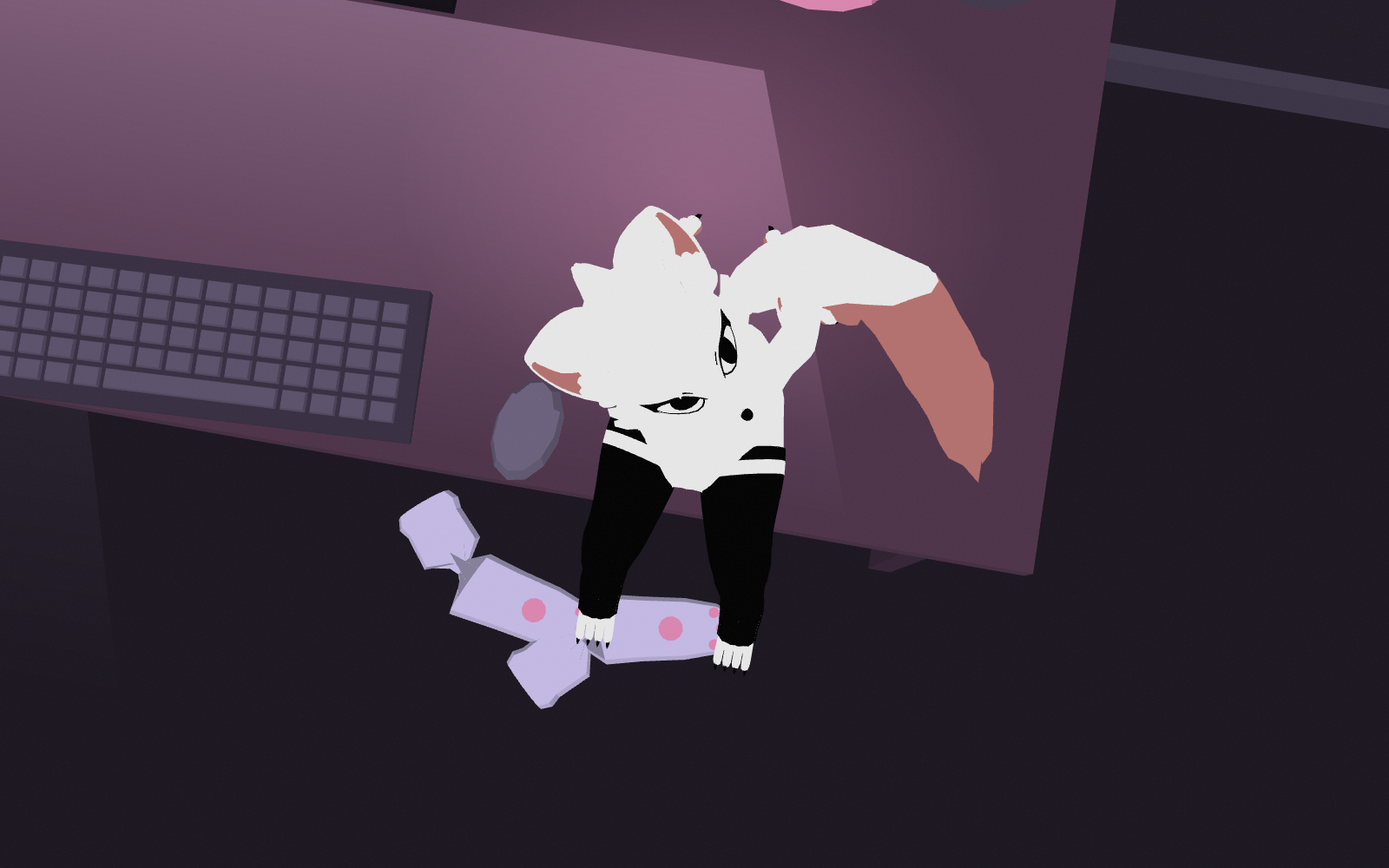
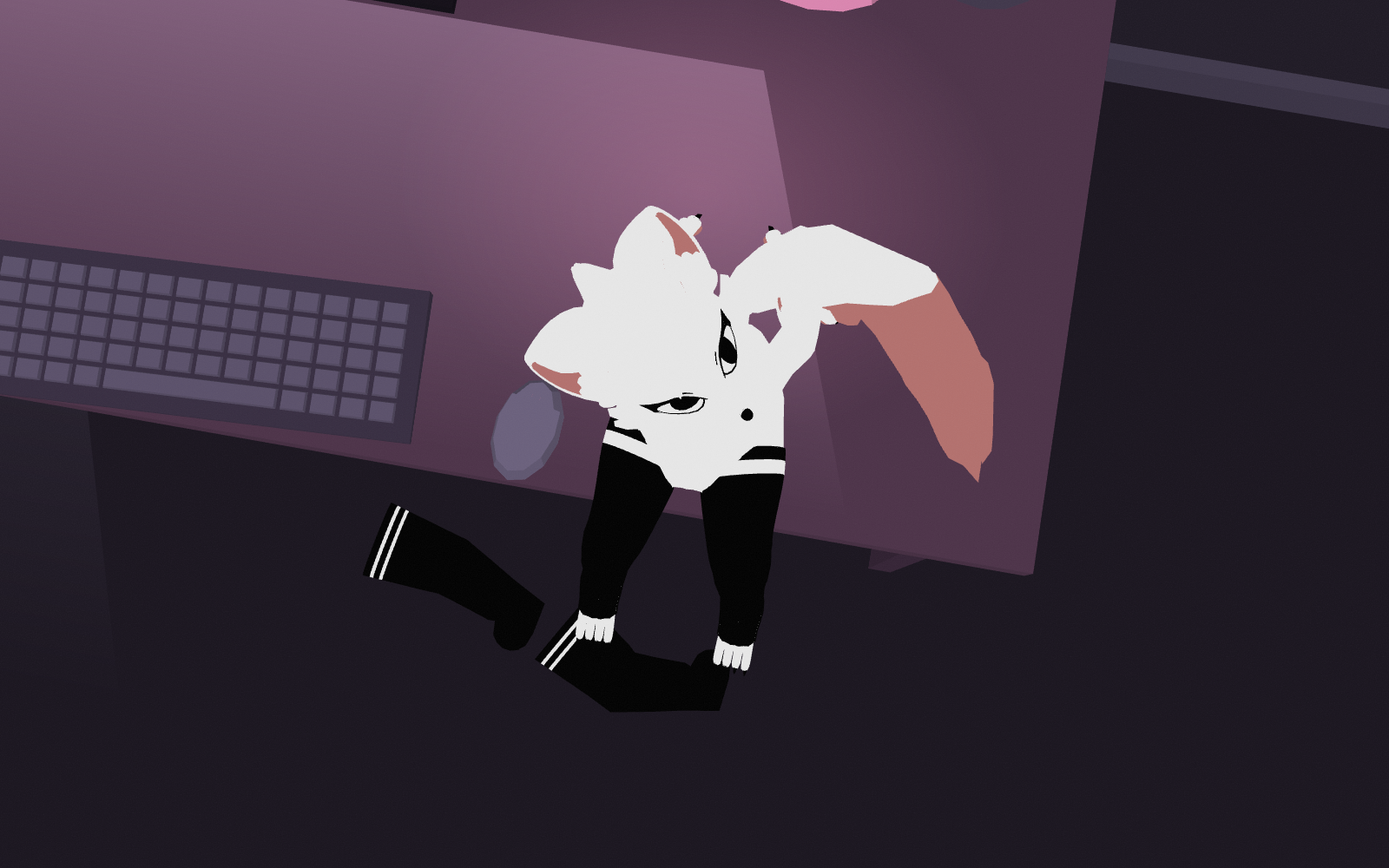
feat: gate 1 round 6: the floor socks become the cat's own stockings
- buildStocking replaces buildSock: an empty thigh-high lying flat, lofted
  along cuff -> knee -> heel -> toe with a mitred knee kink and heel fold,
  black with the two white stripes below the cuff, proportioned like the
  pair on the cat's legs (23 cm leg, 5.5 cm foot, 11 -> 6 cm flat width).
  One lies nearly straight, one bent at the knee; no paw print, as on the
  cat. The colours are the model's authored black and white (warmed at
  dawn like the cat's shader does), the one prop outside the palette.
- Kit.loft takes per-segment paints; the unused prism builder is gone.
- SOCKS layout constant describes the stockings; the lab socks camera
  pulls back to 1.0 m; socks.png joins the Gate 1 package.
- Gate 1 README: pose sit accepted (decision 1), stockings awaiting
  approval (decision 8), round 6 notes; plan world list amended.

Changed region(s): [[0.25, 0.558, 0.5312, 0.837]]

diff --git a/src/features/cat-room/lib/scene/room/build-room.ts b/src/features/cat-room/lib/scene/room/build-room.ts
@@ -1,4 +1,5 @@
 import type { BufferGeometry } from 'three'
+import { DEG } from '@/shared/lib/math/ease'
 import type { Vec3 } from '@/shared/lib/math/vec3'
 import {
 	DESK,
@@ -73,8 +74,11 @@ export const PAINTS = {
 		mixHex(P.rose, P.blush, 0.25),
 	),
 	moon: paint(P.snow, mixHex(P.lavender, P.orchid, 0.35)),
-	sock: paint(P.lavender, mixHex(P.lavender, P.blush, 0.5)),
-	pawPrint: paint(P.rose, P.rose),
+	// The floor stockings are the cat's own, so they take its authored colours
+	// rather than palette mixes: black, and the body's white (linear 0.8),
+	// warmed at dawn the way the cat's shader warms it.
+	stocking: paint(0x000000),
+	stockingStripe: paint(0xe6e6e6, 0xe6dbcf),
 	screenGlow: paint(P.orchid, P.blush),
 	moonlight: paint(P.lavender, P.lavender),
 	lampPool: paint(P.rose, mixHex(P.rose, P.blush, 0.5)),
@@ -432,6 +436,10 @@ function buildLamp(kit: Kit) {
 	kit.fan(bulbCentre, bulbRing, LAMP.head, PAINTS.bulb, 1)
 }
 
+function add3(a: Vec3, b: Vec3): Vec3 {
+	return [a[0] + b[0], a[1] + b[1], a[2] + b[2]]
+}
+
 function sub3(a: Vec3, b: Vec3): Vec3 {
 	return [a[0] - b[0], a[1] - b[1], a[2] - b[2]]
 }
@@ -465,81 +473,116 @@ function frameOf3(axis: Vec3): [Vec3, Vec3] {
 
 function buildSocks(kit: Kit) {
 	const [cx, cy, cz] = SOCKS.center
-	const [w] = SOCKS.size
-	for (const [index, side] of [-1, 1].entries()) {
-		buildSock(
-			kit,
-			[cx + side * (SOCKS.gap + w / 2), cy, cz + index * 0.03],
-			SOCKS.yawDeg + index * 22,
-			side,
-		)
-	}
+	// One nearly straight, foot towards the viewer; one bent at the knee,
+	// foot back towards the desk. Neither crosses the other.
+	buildStocking(kit, [cx - 0.24, cy, cz - 0.04], SOCKS.yawDeg, -1, 14)
+	buildStocking(kit, [cx + 0.04, cy, cz + 0.04], SOCKS.yawDeg - 20, 1, 36)
 }
 
 /**
- * One sock lying flat: a lofted tube that runs down the leg, turns at the
- * heel and tapers to a rounded toe, with a cuff lip at the open end and a
- * paw print on the top of the foot. `mirror` flips which way the leg bends.
+ * One of the cat's stockings dropped on the floor: an empty thigh-high lying
+ * flat, lofted along a path that kinks at the knee and folds at the heel,
+ * tapering from the cuff to the ankle and on to a rounded toe, with the two
+ * white stripes below the cuff. `mirror` flips the bends, `kneeDeg` is the
+ * kink at the knee; the stocking starts at `origin` with its cuff and runs
+ * along local +Z turned by `yawDeg`.
  */
-function buildSock(kit: Kit, origin: Vec3, yawDeg: number, mirror: number) {
-	const [w, h, l] = SOCKS.size
+function buildStocking(
+	kit: Kit,
+	origin: Vec3,
+	yawDeg: number,
+	mirror: number,
+	kneeDeg: number,
+) {
+	const { length, foot, cuffWidth, ankleWidth, thickness } = SOCKS
 	const up: Vec3 = [0, 1, 0]
-	const foot: Vec3 = [0, 0, 1]
-	const leg = unit3([-0.6 * mirror, 0, -0.8])
+	const knee = length / 2
+	const heelDeg = kneeDeg + 75
+	const heading = (deg: number): Vec3 => [
+		mirror * Math.sin(deg * DEG),
+		0,
+		Math.cos(deg * DEG),
+	]
+	// Local position and tangent at distance `s` along cuff → knee → heel → toe.
+	const along = (s: number): { x: number; z: number; tangent: Vec3 } => {
+		const legs: [number, Vec3][] = [
+			[knee, heading(0)],
+			[length - knee, heading(kneeDeg)],
+			[foot, heading(heelDeg)],
+		]
+		let x = 0
+		let z = 0
+		let left = s
+		for (const [span, dir] of legs) {
+			const step = Math.min(left, span)
+			x += dir[0] * step
+			z += dir[2] * step
+			left -= step
+			if (left <= 1e-9) return { x, z, tangent: dir }
+		}
+		return { x, z, tangent: legs[legs.length - 1][1] }
+	}
 	const at = (x: number, z: number, y = 0): Vec3 =>
 		yawAround([origin[0] + x, origin[1] + y, origin[2] + z], yawDeg, origin)
-	// A flattened ellipse resting on the floor, across `tangent`.
+	// The empty stocking's flat width, cuff to ankle, then the foot.
+	const widthAt = (s: number) =>
+		s <= length
+			? cuffWidth + (ankleWidth - cuffWidth) * (s / length)
+			: ankleWidth * 0.95
+	// A flattened ellipse resting on the floor across `tangent`; a fold
+	// station takes the bisector and widens by the mitre of its turn.
 	const station = (
-		x: number,
-		z: number,
-		tangent: Vec3,
-		scaleW: number,
-		scaleH: number,
+		s: number,
+		{
+			tangent = along(s).tangent,
+			width = 1,
+			height = 1,
+			turnDeg = 0,
+		}: {
+			tangent?: Vec3
+			width?: number
+			height?: number
+			turnDeg?: number
+		} = {},
 	) => {
+		const { x, z } = along(s)
 		const across = unit3(cross3(tangent, up))
 		const yawed = unit3(sub3(at(x + across[0], z + across[2]), at(x, z)))
-		return ring(
-			at(x, z, (h / 2) * scaleH),
-			yawed,
-			up,
-			(w / 2) * scaleW,
-			(h / 2) * scaleH,
-			12,
-		)
+		const w = (widthAt(s) * width) / Math.cos((turnDeg / 2) * DEG)
+		const h = thickness * height
+		return ring(at(x, z, h / 2), yawed, up, w / 2, h / 2, 14)
 	}
-	const alongLeg = (distance: number) =>
-		[leg[0] * distance, leg[2] * distance] as const
+	const fold = (s: number, fromDeg: number, toDeg: number) =>
+		station(s, {
+			tangent: unit3(add3(heading(fromDeg), heading(toDeg))),
+			turnDeg: toDeg - fromDeg,
+		})
+	const [[a0, a1], [b0, b1]] = SOCKS.stripes
 	const rings = [
-		station(...alongLeg(0.13), leg, 0.9, 1.1),
-		station(...alongLeg(0.115), leg, 1.05, 1.15),
-		station(...alongLeg(0.1), leg, 0.95, 1),
-		station(...alongLeg(0.05), leg, 1, 1),
-		station(
-			0,
-			0,
-			unit3([leg[0] * -0.5 + 0, 0, leg[2] * -0.5 + 1]),
-			1.12,
-			1.05,
-		),
-		station(0, l * 0.3, foot, 1, 1),
-		station(0, l * 0.6, foot, 0.95, 0.95),
-		station(0, l * 0.82, foot, 0.78, 0.8),
-		station(0, l * 0.95, foot, 0.45, 0.55),
-		station(0, l, foot, 0.18, 0.25),
+		station(0, { height: 1.3 }),
+		station(a0, { height: 1.2 }),
+		station(a1, { height: 1.1 }),
+		station(b0),
+		station(b1),
+		station(0.06),
+		station(0.09),
+		fold(knee, 0, kneeDeg),
+		station(0.16),
+		station(0.2),
+		fold(length, kneeDeg, heelDeg),
+		station(length + foot * 0.4),
+		station(length + foot * 0.75, { width: 0.85 }),
+		station(length + foot * 0.92, { width: 0.55, height: 0.7 }),
+		station(length + foot, { width: 0.2, height: 0.4 }),
 	]
-	kit.loft(rings, PAINTS.sock, { closeStart: true, closeEnd: true })
-	// Paw print on top of the foot, each disc on the ellipse's surface.
-	const print = (x: number, z: number, radius: number) => {
-		const top = h * Math.sqrt(Math.max(0, 1 - (x / (w / 2)) ** 2))
-		kit.disc(at(x, z, top + 0.0015), radius, 12, PAINTS.pawPrint)
-	}
-	print(0, l * 0.5, 0.017)
-	for (const [tx, tz] of [
-		[-0.022, 0.09],
-		[0, 0.1],
-		[0.022, 0.09],
-	] as const)
-		print(tx, l * 0.5 + tz - 0.03, 0.0075)
+	const paints = rings.map((_, segment) =>
+		segment === 1 || segment === 3 ? PAINTS.stockingStripe : undefined,
+	)
+	kit.loft(rings, PAINTS.stocking, {
+		closeStart: true,
+		closeEnd: true,
+		paints,
+	})
 }
 
 function buildPaintedLight(glow: Kit) {

diff --git a/src/features/cat-room/lib/scene/room/kit.ts b/src/features/cat-room/lib/scene/room/kit.ts
@@ -301,35 +301,6 @@ export class Kit {
 			this.tri([center, point(i), point(i + 1)], paint, { tone })
 	}
 
-	/**
-	 * A triangular prism lying along Z: a wedge with a sloping top, used for
-	 * the socks. `size` is width, height, length; the ridge sits at `ridge`
-	 * (0..1 across the width).
-	 */
-	prism(
-		center: Vec3,
-		size: Vec3,
-		paint: Paint,
-		{ yaw = 0, ridge = 0.5 }: { yaw?: number; ridge?: number } = {},
-	) {
-		const [cx, cy, cz] = center
-		const [w, h, l] = size
-		const p = (x: number, y: number, z: number): Vec3 =>
-			rotateY([cx + x, cy + y, cz + z], yaw, center)
-		const rx = -w / 2 + w * ridge
-		const bl0 = p(-w / 2, 0, -l / 2)
-		const br0 = p(w / 2, 0, -l / 2)
-		const bl1 = p(-w / 2, 0, l / 2)
-		const br1 = p(w / 2, 0, l / 2)
-		const t0 = p(rx, h, -l / 2)
-		const t1 = p(rx, h, l / 2)
-		this.quad([bl1, t1, t0, bl0], paint) // left slope
-		this.quad([br0, t0, t1, br1], paint) // right slope
-		this.tri([bl0, t0, br0], paint) // back end
-		this.tri([br1, t1, bl1], paint) // front end
-		this.quad([bl0, br0, br1, bl1], paint, { tone: ROOM_TONES.away }) // bottom
-	}
-
 	/** A quad whose normal points away from `inside` (winding fixed up for the tone). */
 	outwardQuad(
 		corners: readonly [Vec3, Vec3, Vec3, Vec3],
@@ -377,15 +348,28 @@ export class Kit {
 			closeStart = false,
 			closeEnd = true,
 			tone,
-		}: { closeStart?: boolean; closeEnd?: boolean; tone?: number } = {},
+			paints,
+		}: {
+			closeStart?: boolean
+			closeEnd?: boolean
+			tone?: number
+			/** Per-segment overrides of `paint`; segment `r` spans rings `r` and `r + 1`. */
+			paints?: readonly (Paint | undefined)[]
+		} = {},
 	) {
 		for (let r = 0; r < rings.length - 1; r++) {
 			const a = rings[r]
 			const b = rings[r + 1]
 			const inside = centroid([...a, ...b])
+			const segmentPaint = paints?.[r] ?? paint
 			for (let i = 0; i < a.length; i++) {
 				const j = (i + 1) % a.length
-				this.outwardQuad([a[i], a[j], b[j], b[i]], inside, paint, tone)
+				this.outwardQuad(
+					[a[i], a[j], b[j], b[i]],
+					inside,
+					segmentPaint,
+					tone,
+				)
 			}
 		}
 		const first = rings[0]

diff --git a/src/features/cat-room/config/room-layout.ts b/src/features/cat-room/config/room-layout.ts
@@ -101,15 +101,25 @@ export const WINDOW = {
 } as const
 
 /**
- * A pair of socks on the floor in front of the desk, paw prints up. The
- * portrait hero camera sees only a 12 cm strip of floor between the desk's
- * front edge and the bottom of the frame, so they lie along that strip.
+ * The cat's spare stockings dropped on the floor in front of the desk (the
+ * strip the portrait camera sees): black thigh-highs with the white double
+ * stripe, proportioned like the pair on its legs (Gate 1, round 6). Metres;
+ * widths are those of the empty stocking lying flat.
  */
 export const SOCKS = {
 	center: [0.5, ROOM.floorY, -0.7] as Vec3,
-	size: [0.09, 0.05, 0.2] as Vec3,
-	gap: 0.05,
-	yawDeg: 78,
+	/** Cuff to ankle, then the foot. */
+	length: 0.23,
+	foot: 0.055,
+	cuffWidth: 0.11,
+	ankleWidth: 0.06,
+	thickness: 0.014,
+	/** Stripe bands below the cuff edge, metres from it. */
+	stripes: [
+		[0.01, 0.015],
+		[0.023, 0.028],
+	] as const,
+	yawDeg: 80,
 } as const
 
 /**

diff --git a/src/pages/lab/lib/lab-params.ts b/src/pages/lab/lib/lab-params.ts
@@ -159,7 +159,7 @@ export const CAM_PRESETS: Record<Exclude<CamPreset, 'hero'>, Orbit> = {
 	sticker: { yaw: 4, pitch: 6, dist: 0.5, fov: 30, focus: 'sticker' },
 	lamp: { yaw: -30, pitch: 12, dist: 0.9, fov: 30, focus: 'lamp' },
 	desk: { yaw: -15, pitch: 40, dist: 0.8, fov: 30, focus: 'desk' },
-	socks: { yaw: 25, pitch: 50, dist: 0.7, fov: 30, focus: 'socks' },
+	socks: { yaw: 25, pitch: 50, dist: 1.0, fov: 30, focus: 'socks' },
 }
 
 /** Centre of interest for a focus; `head` is refined by the lab from the live bone position. */

diff --git a/docs/lookdev/gate-1/README.md b/docs/lookdev/gate-1/README.md
@@ -10,22 +10,21 @@
 
 | # | Решение | Статус |
 |---|---|---|
-| 1 | Поза `sit` (вместо `lounge`) | **На утверждение.** По твоему слову лежачая поза выброшена: кот сидит на переднем краю стола рядом с мышкой, ноги свисают со стола, лапы спрятаны за спину, хвост перевешен на новые кости, взгляд на камеру (раунд 5). |
+| 1 | Поза `sit` (вместо `lounge`) | Принято (раунд 6): кот сидит на переднем краю стола рядом с мышкой, ноги свисают, лапы за спиной, взгляд на камеру. |
 | 2 | Комната | Принято. |
 | 3 | Ночная палитра | Принято. |
 | 4 | Рассветная палитра и поза сна | Принято. |
 | 5 | Вариант шейдинга | Решено: шейдинг не нужен. Вариант B удалён из кода, остались плоские авторские цвета. |
 | 6 | 2D-лицо = `cat-sticker.png` | Принято. |
 | 7 | Стикер на системнике | Принято. |
-| 8 | Носки | Переделаны из двух коробок в настоящие носки (лофт с пяткой, мыском и манжетой, лапка сверху); лежат в полосе пола, которую видит портретная камера. **Взгляни:** `hero-night-390x844-lite.png`, крупно `/lab?view=turntable&cam=socks`. |
+| 8 | Носки | **На утверждение (третья версия).** Теперь это чулки самого кота: чёрные, до бедра, с двойной белой полоской под манжетой, лежат на полу перед столом. **Взгляни:** `socks.png`, `hero-night-390x844-lite.png`, `/lab?view=turntable&cam=socks`. |
 | 9 | Плёночное зерно | Решено: зерно нужно. В лабе его нет; на странице (M3) `body::after` ляжет поверх канваса комнаты. |
 
 ## Что нужно утвердить
 
 | # | Вопрос | Смотреть | URL лаба |
 |---|---|---|---|
-| 1 | **Поза `sit`**: сидит на переднем краю стола между мышкой и лампой лицом к зрителю, бёдра на столе, голени свисают за край, обе передние лапы упёрты в стол за спиной (корпус чуть откинут), хвост уходит назад по столу и сворачивается вокруг левого бедра, голова и зрачки следят за камерой. Подходит? Если нет, скажи, что поменять: наклон корпуса, как именно спрятать лапы, где хвост. | `hero-night-1920x1200.png`, `cat-close-up.png`, `cat-quarter.png`, `cat-side.png`, `cat-top.png` | `/lab?view=hero`, `/lab?view=turntable&pose=sit&cam=close\|quarter\|side\|top\|front` |
-| 8 | **Носки** теперь нормальные? | `hero-night-390x844-lite.png` | `/lab?view=turntable&cam=socks`, `/lab?view=hero&lite=1` |
+| 8 | **Чулки на полу**: такие же, как на ногах у кота (чёрные, двойная белая полоска, пропорции сняты с его чулок), один почти прямой, второй согнут в колене. Подходит? Если нет, скажи: цвет, длина, как лежат, нужна ли лапка. | `socks.png`, `hero-night-390x844-lite.png` | `/lab?view=turntable&cam=socks`, `/lab?view=hero&lite=1` |
 
 ## Что изменилось после правок владельца
 
@@ -61,6 +60,11 @@
 16. **Смотрит в камеру.** В слое взгляда был перепутан знак тангажа: при камере выше головы кот опускал морду вниз. Исправлено, пределы поворота расширены до 60° по рысканью и 40° по тангажу. С hero-камеры морда и зрачки направлены на зрителя (измерено по кости глаза в лабе); во сне взгляд по-прежнему выключен.
 17. **Чулки на коленях, окончательно.** Белые пятна на коленях сидящего кота — не «нога шире чулка»: у ноги и чулка (почти близнецы по сетке) границы весов бедро/голень лежат на разной высоте, и при сгибе часть ноги поворачивалась с бедром, пока чулок вокруг неё — с голенью; втягивание к оси не могло помочь, а изнутри сгиба чулок схлопывается к суставу, где видна любая нога с радиусом. Теперь шаг `tuck-stockings` копирует на закрытую ногу веса ближайшей вершины чулка и схлопывает её на кости (от лодыжки до верха чулка); лапы не тронуты. Проверка в лабе: трассировка от hero-камеры к каждой белой вершине ног — сквозь чулок не видно ничего, кроме лап.
 
+Раунд 6:
+
+18. **Поза `sit` принята.**
+19. **Носки стали чулками кота.** Вместо лавандовых носков с лапкой на полу лежат его собственные чулки: чёрные (авторский чёрный модели), до бедра, с двумя белыми полосками под манжетой (белый тела, на рассвете теплеет так же, как у кота). Пропорции сняты с чулок на ногах: от манжеты до лодыжки 23 см, стопа 5,5 см, ширина пустого чулка 11 см у манжеты и 6 см у лодыжки. Каждый — лофт из пятнадцати плоских колец по пути «манжета → колено → пятка → мысок» с изломом в колене и складкой на пятке; один лежит почти прямо стопой к зрителю, второй согнут в колене стопой к столу, друг друга не пересекают. Лапки нет: на чулках кота её нет. Код: `buildStocking` в `src/features/cat-room/lib/scene/room/build-room.ts`, размеры в `SOCKS` (`config/room-layout.ts`); в пакет добавлен кадр `socks.png`.
+
 Также в пакете:
 
 - `stretch.png`: сидячая реакция на клик (плюс мяуканье челюстью). `/lab?view=turntable&pose=stretch&cam=quarter&meow=1`
@@ -80,7 +84,7 @@
 
 ## Как это сделано
 
-- Комната: один слитый меш из боксов, цилиндров, дисков, лофтов (клавиатура, мышь, лампа, носки) и квадов с двумя атрибутами цвета (ночь, рассвет) и тоном грани от нормали; нарисованный свет — второй меш из прозрачных квадов. Около 1 600 треугольников плюс монитор.
+- Комната: один слитый меш из боксов, цилиндров, дисков, лофтов (клавиатура, мышь, лампа, чулки) и квадов с двумя атрибутами цвета (ночь, рассвет) и тоном грани от нормали; нарисованный свет — второй меш из прозрачных квадов. Около 1 600 треугольников плюс монитор.
 - Кот: `public/models/cat.glb` (191 кБ, один скин, 137 суставов: 134 авторских и три достроенных хвостовых), нормализован до 0,62 м. Позы — направления `aim` (пространство персонажа) или `aimWorld` (мир уложенного кота), скомпилированные в локальные повороты; `sit`, `stretch` и `sleep` лежат в `src/features/cat-room/config/poses.ts`. Idle-слои: дыхание, ограниченный взгляд головы и глаз на камеру (выключен во сне), подёргивание ушей, челюсть на мяу, верле-пружины хвоста и ушей с интерполяцией между подшагами и полом на высоте стола.
 - Закрытые глаза (`lib/scene/cat/eyelids.ts`): обводка глаза измерена по модели, схлопывается через атрибут `sleepShift` по `uEyesClosed`, штрих растёт из точки внутри головы по квадратичной аппроксимации поверхности.
 - Проверка пересечений (`config/colliders.ts`, `scene.penetration()`): твёрдые тела комнаты как функции глубины; отчёт по телу и ведущей кости; `--clip`, часть `--gate`.
@@ -99,7 +103,8 @@
 - 2D-лицо — стикер-PNG, шейдинга B нет (решения владельца на Gate 1).
 - Нога под чулком (от лодыжки до верха чулка) схлопнута на кости и перевешена весами чулка в шаге `tuck-stockings` (меш невидим под чулком; авторский вид не меняется).
 - Хвосту достроены три кости и переписаны веса (`smooth-tail`); авторская геометрия не тронута.
-- Носки лежат у `(0.5, 0, −0.7)`, а не по центру перед столом: только там их видит портретная камера.
+- Чулки лежат у `(0.5, 0, −0.7)`, а не по центру перед столом: только там их видит портретная камера.
+- Чулки на полу — единственный реквизит не в палитре: авторские чёрный и белый модели, чтобы совпадать с парой на ногах кота.
 
 ## Известные ограничения
 

diff --git a/docs/cat-room-plan.md b/docs/cat-room-plan.md
@@ -27,7 +27,7 @@ Working agreement:
 
 | # | Decision |
 |---|---|
-| 1 | World: cozy developer room at night. Base set only: desk, modern flat monitor (no CRT or retro devices), PC tower, keyboard, mouse, window with the moon, lamp, plus one pair of socks with a paw print (an object in the room). Anything else needs owner approval at Gate 1. |
+| 1 | World: cozy developer room at night. Base set only: desk, modern flat monitor (no CRT or retro devices), PC tower, keyboard, mouse, window with the moon, lamp, plus the cat's spare pair of stockings dropped on the floor (black, white double stripe, like the pair on its legs; Gate 1 round 6 replaced the paw-print socks). Anything else needs owner approval at Gate 1. |
 | 2 | Structure: 3D hero with a scroll-driven camera, 2D sections with huge type, a second 3D moment at the end, credits. |
 | 3 | Dark only, existing palette tokens, no `dark:` variants. |
 | 4 | The cat gets in the way of work: sitting on the front edge of the desk next to the mouse, legs dangling over the edge, one paw on the mouse, facing the visitor (Gate 1 decision: the side-lying pose of the first drafts was rejected); gibberish (`asdfghjkl`) gets typed; on click he stretches and meows. Wholesome, lazy, cat-like, no pin-up staging. The pose render is approved by the owner before anything is built on it. |
